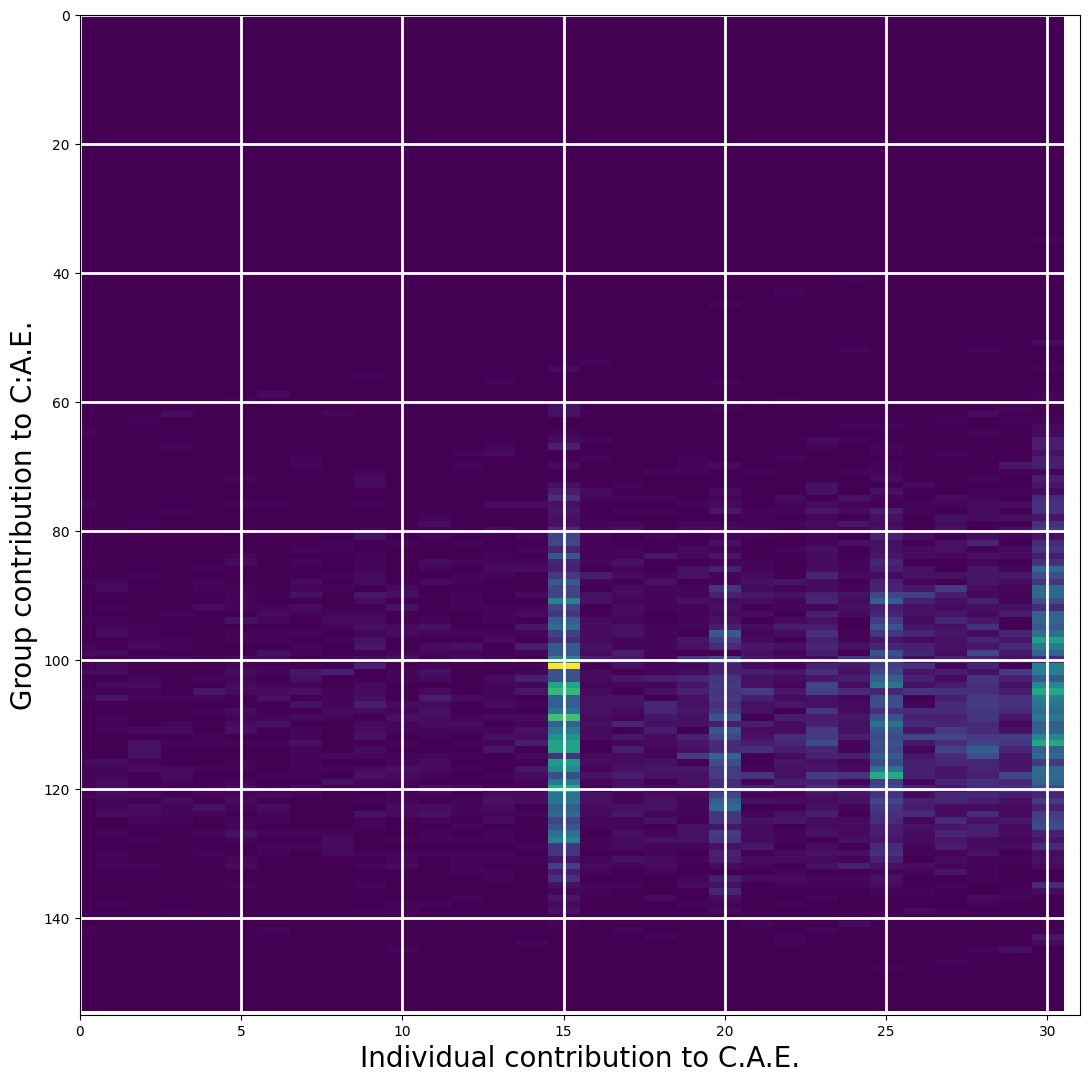
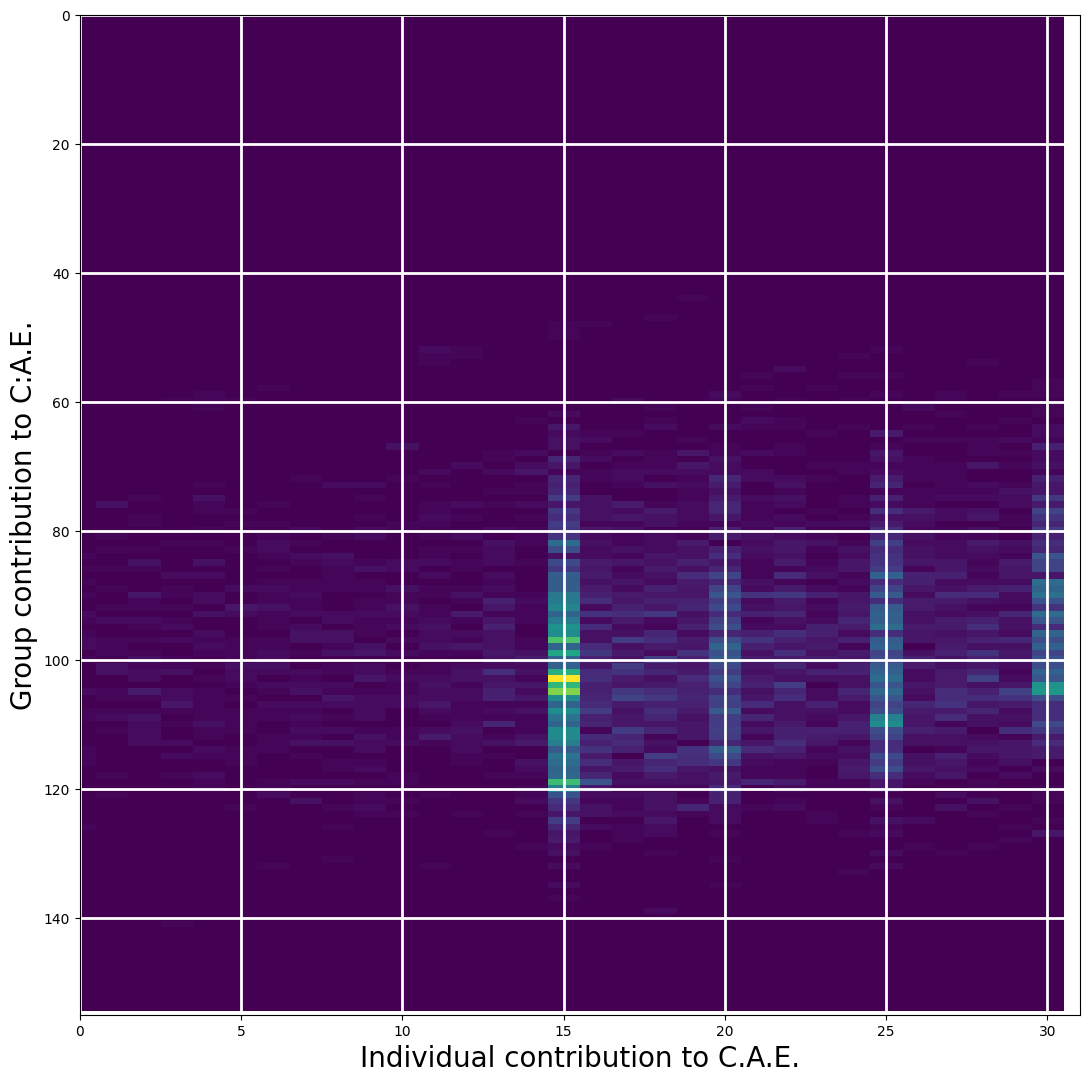
Message average correct

Changed region(s): [[0.4371, 0.3965, 0.9991, 0.8235], [0.4059, 0.549, 0.4683, 0.5795], [0.562, 0.4575, 0.5932, 0.488]]

diff --git a/App/Dynamics/messages.py b/App/Dynamics/messages.py
@@ -67,8 +67,11 @@ def average_stimulus(actions,special_value):
     """
 
     if isinstance(special_value,int) or isinstance(special_value,float):
-        arr = actions - special_value
-        print(actions, arr/np.max(np.abs(arr)))
-        return arr/np.max(np.abs(arr))
-    else:
-        return NotImplemented
+        avg_contribution = np.average(actions)
+
+        if avg_contribution > special_value: 
+            return np.logical_and(actions<avg_contribution,actions>special_value).astype(int)
+        else:
+            return np.logical_and(actions>avg_contribution,actions<special_value).astype(int)
+
+
